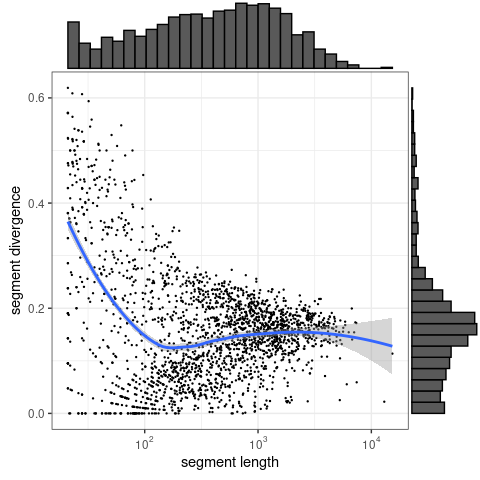
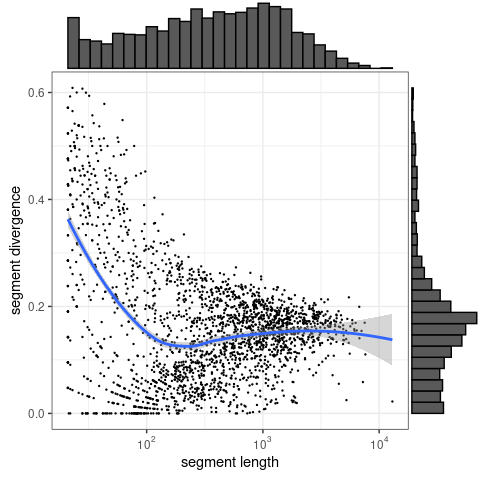
today

diff --git a/README.md b/README.md
@@ -30,44 +30,14 @@ To load nessesary libraries:
 ``` r
 library(segmut)
 library(DEoptim, quietly=T) # to find optimal break points using differential evolution algorithm
-#> 
-#> DEoptim package
-#> Differential Evolution algorithm in R
-#> Authors: D. Ardia, K. Mullen, B. Peterson and J. Ulrich
 library(RColorBrewer, quietly=T) # to plot results
 library(stringr)
 library(tidyverse)
-#> ── Attaching packages
-#> ───────────────────────────────────────
-#> tidyverse 1.3.2 ──
-#> ✔ ggplot2 3.4.0      ✔ purrr   0.3.5 
-#> ✔ tibble  3.1.8      ✔ dplyr   1.0.10
-#> ✔ tidyr   1.2.1      ✔ forcats 0.5.2 
-#> ✔ readr   2.1.3      
-#> ── Conflicts ────────────────────────────────────────── tidyverse_conflicts() ──
-#> ✖ dplyr::filter() masks stats::filter()
-#> ✖ dplyr::lag()    masks stats::lag()
 library(scales)
-#> 
-#> Attaching package: 'scales'
-#> 
-#> The following object is masked from 'package:purrr':
-#> 
-#>     discard
-#> 
-#> The following object is masked from 'package:readr':
-#> 
-#>     col_factor
 library(ggExtra)
 library(stringi)
 library(ggplot2)
 library(plotrix)
-#> 
-#> Attaching package: 'plotrix'
-#> 
-#> The following object is masked from 'package:scales':
-#> 
-#>     rescale
 options(warn=-1)
 ```
 
@@ -97,6 +67,9 @@ To find optimal breaks locations given `n=3` number of breaks
 
 ``` r
 res <- suppressWarnings(getBreaksChiSquare(muts = muts, L = L, Kmin=Kmin, n=3))
+print(res)
+#> par1 par2 par3 
+#>  701 2005 3312
 ```
 
 To plot the results
@@ -123,13 +96,16 @@ breaks and their locations:
 To find optimal number of breaks
 
 ``` r
-breaks <- suppressWarnings(getNumberBreaksChiSquare(muts,L=L,Kmin=Kmin))
+res <- suppressWarnings(getNumberBreaksChiSquare(muts,L=L,Kmin=Kmin))
+print(res)
+#>      par1      par2      par3      par4 
+#>  700.9966 1970.9991 2005.0004 3312.0117
 ```
 
 To plot the results
 
 ``` r
-breaks0L <- sort(c(0,breaks,L))
+breaks0L <- sort(c(0,res,L))
 colors <- brewer.pal(name="Paired", n=length(breaks0L)-1)
 par(mar=c(2,0,0,0))
 plot(muts,rep(0,length(muts)),pch=".", cex = 1.5,ylim=c(-0.06,0.01),ylab="",xlab="", axes=F)
@@ -231,10 +207,10 @@ for (i in order(-Ls))
 }
 end_time <- Sys.time()
 print(end_time - start_time)
-#> Time difference of 56.42706 secs
+#> Time difference of 1.794904 mins
 ```
 
-In total there are 2128 segments.
+In total there are 2219 segments.
 
 Plotting divergences and lengths of the segments:
 
